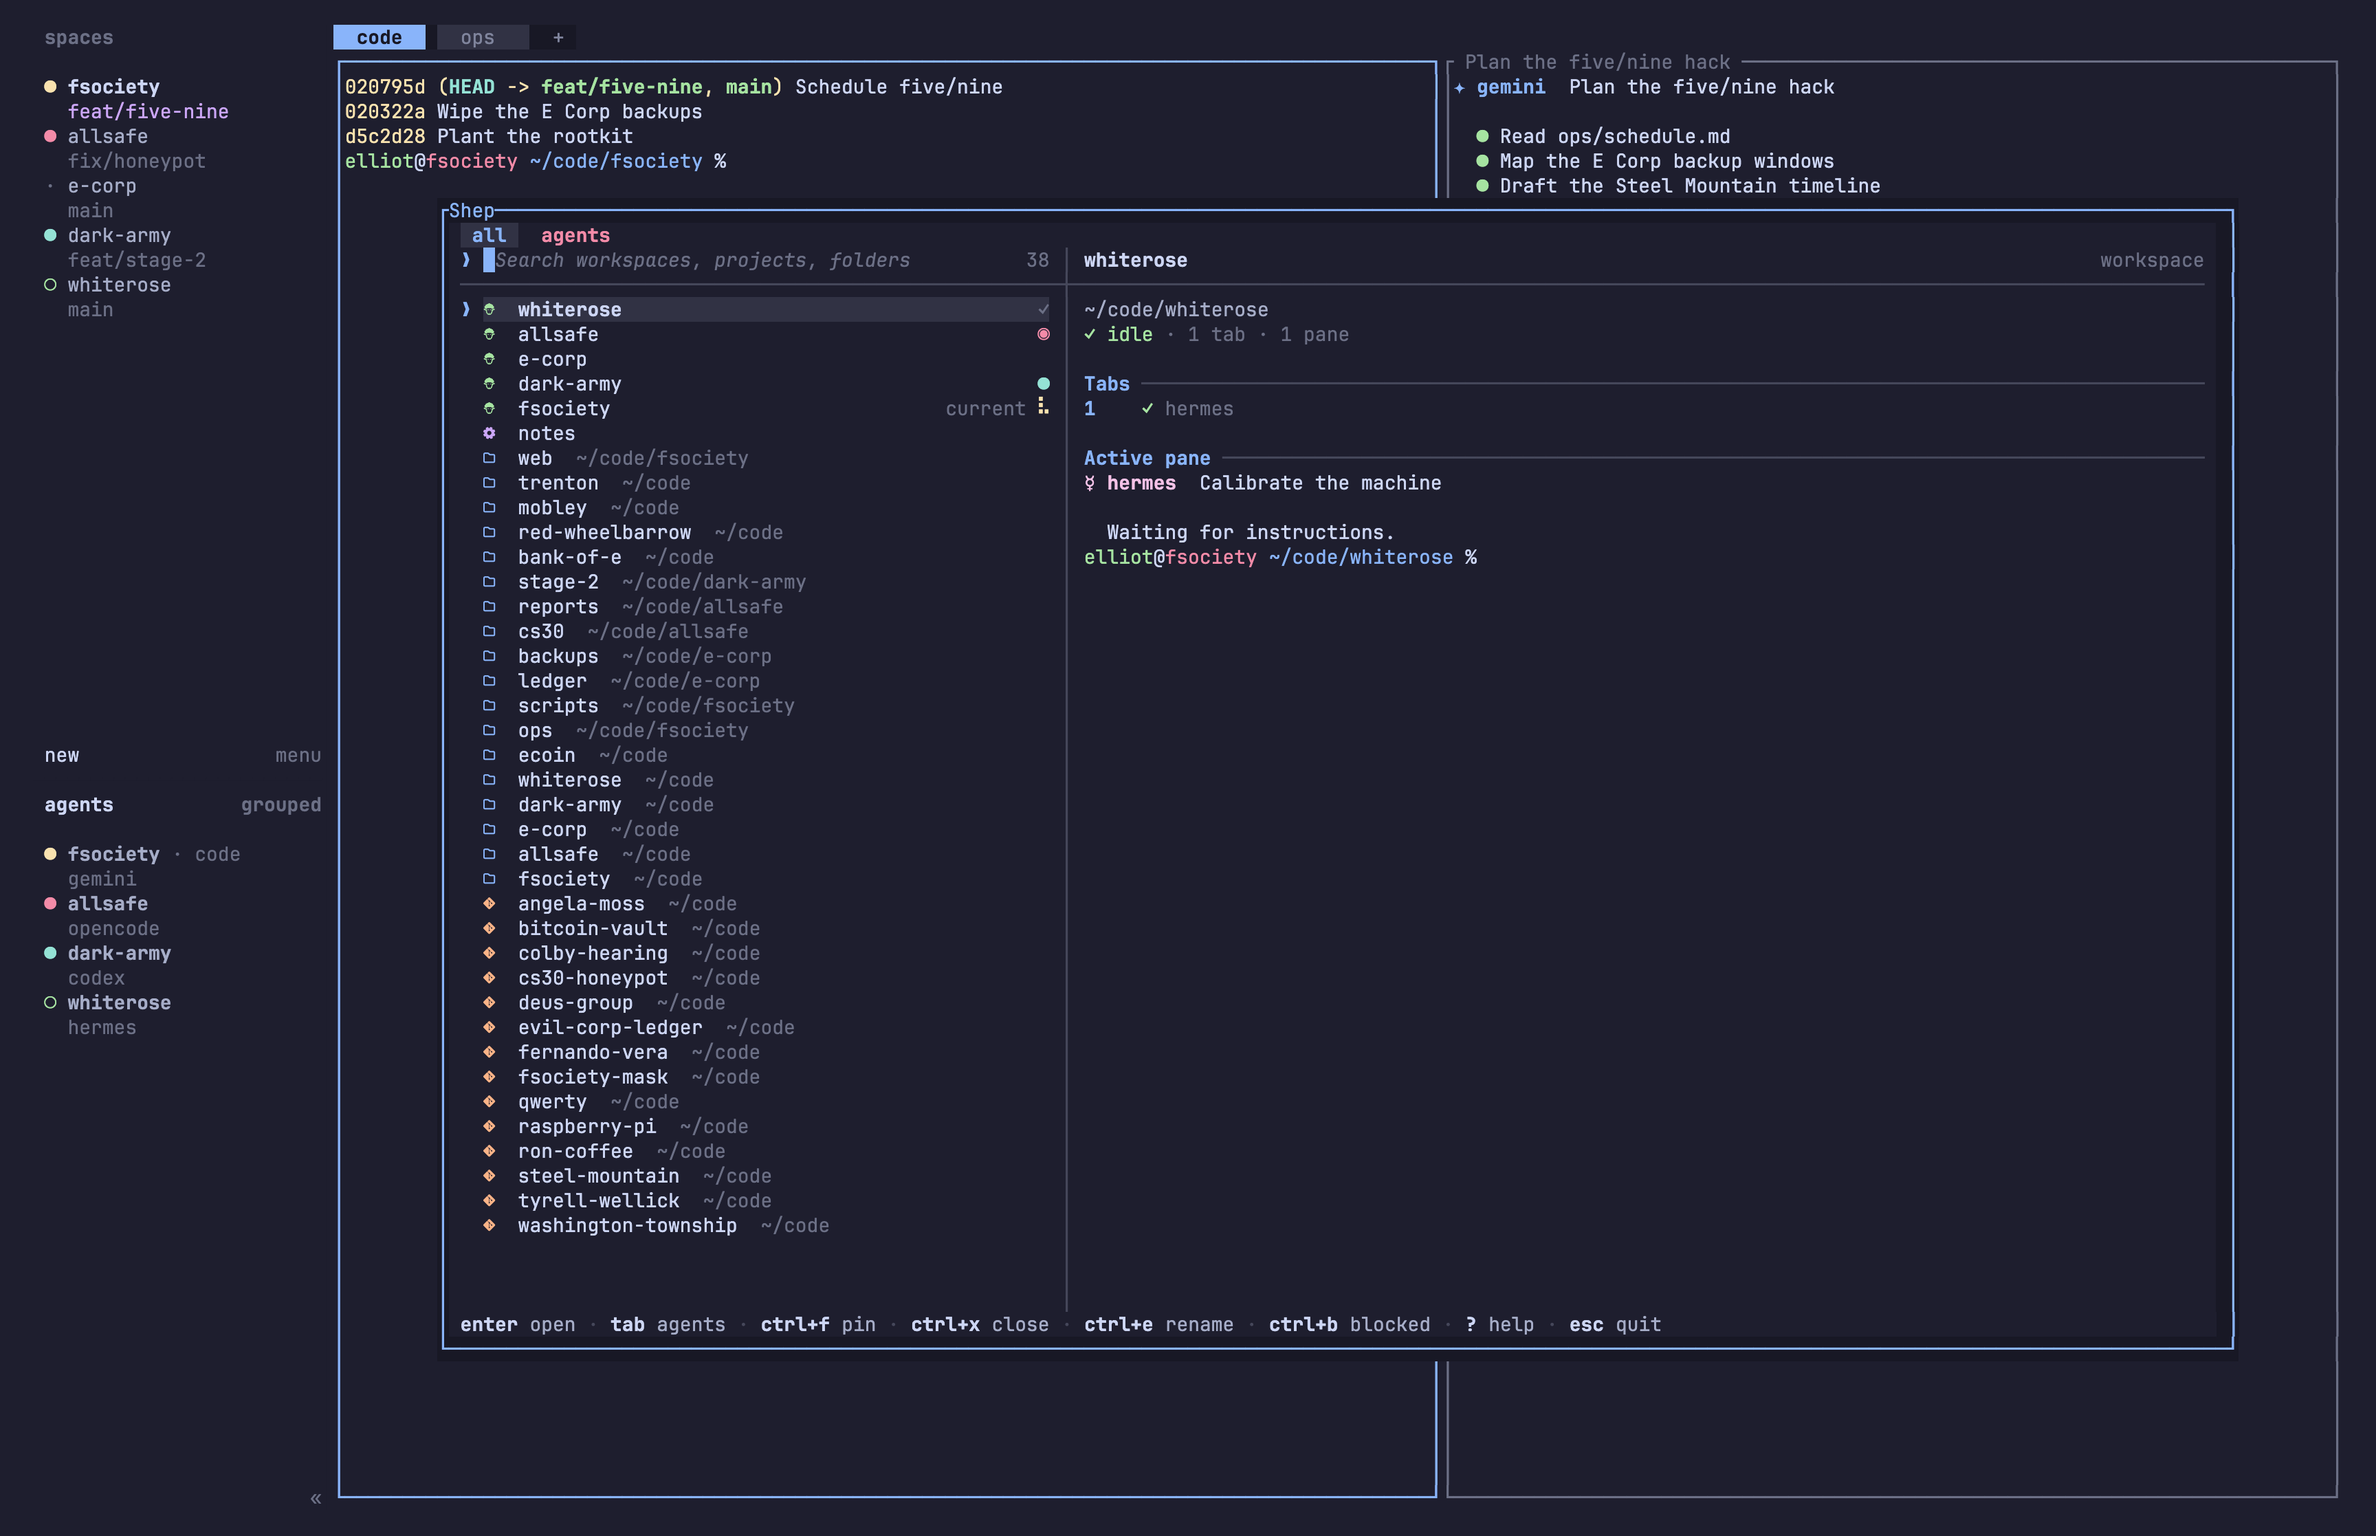
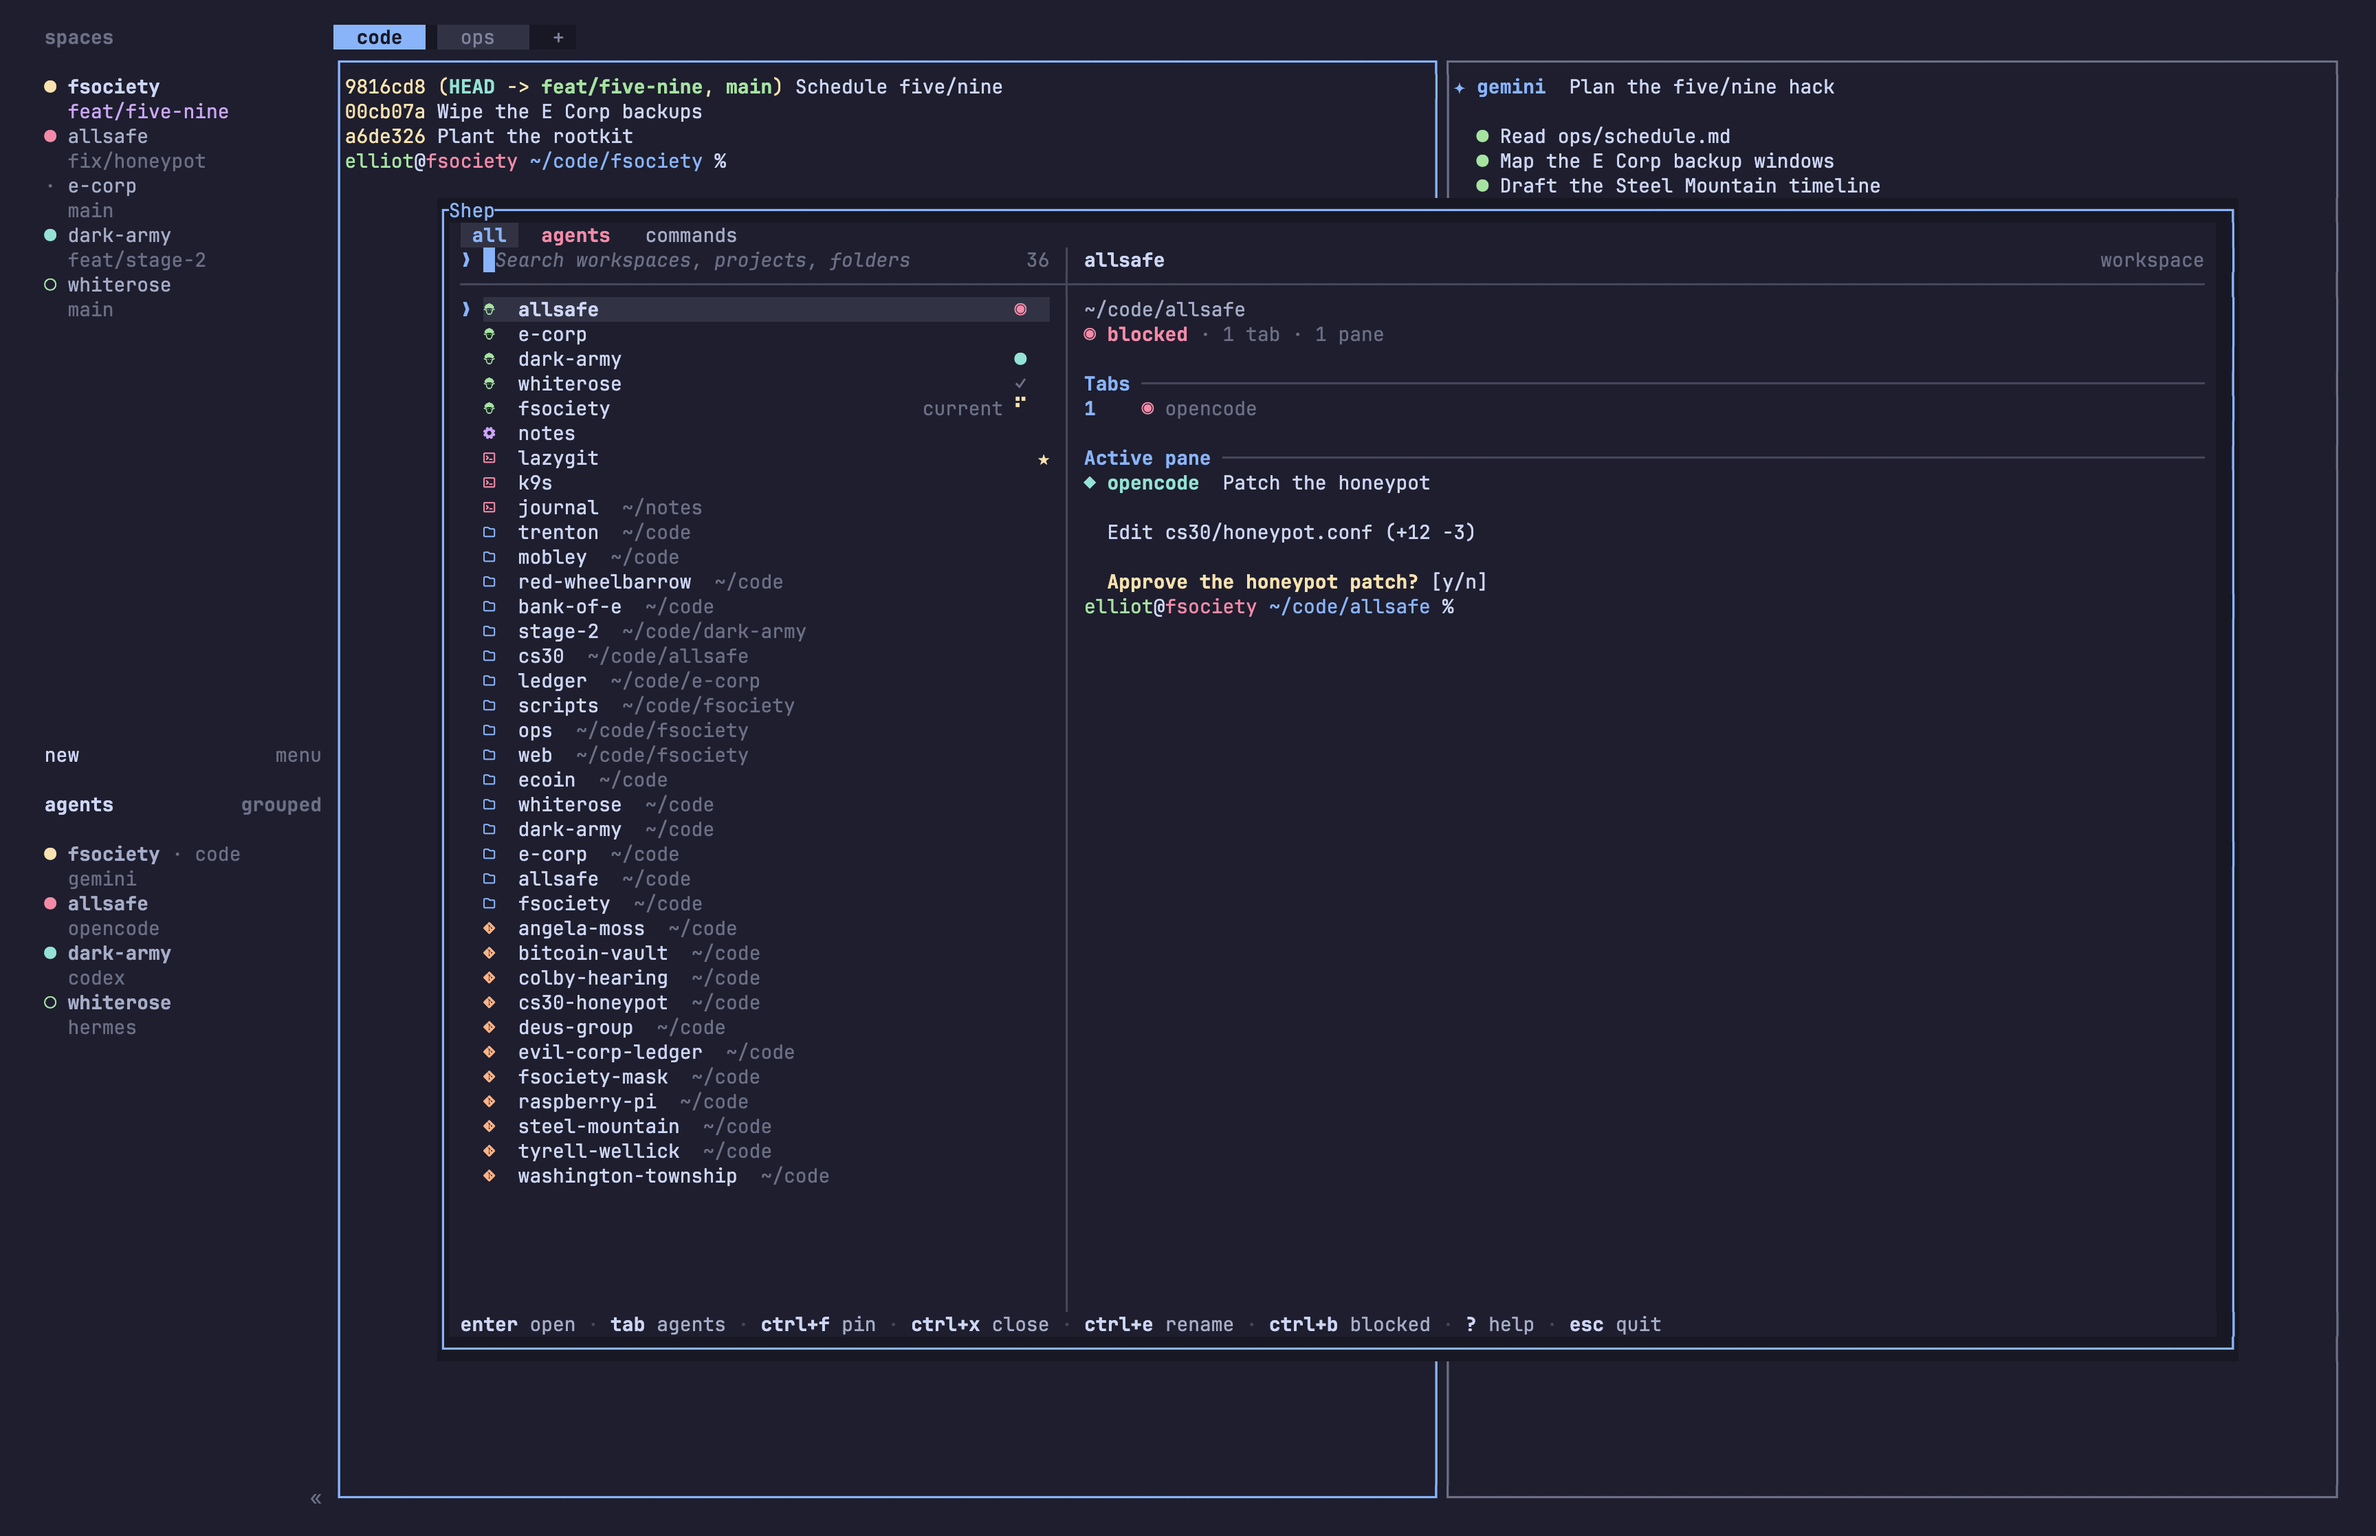
docs(media): show the commands tab, a pin and a blocked agent
The README screenshot and the link preview card are captured again from
a demo Herdr with the v1.2 picker: the commands tab and rows, a pinned
row, and the blocked agent's question in the preview. The card's tagline
names programs.

diff --git a/README.md b/README.md
@@ -292,7 +292,7 @@ the full recovery and refusal taxonomy.
 The picker is one grid with a single frame (Herdr's popup border when it runs as a plugin): views on top, the search prompt and the list on the left, the preview on the right, and the shortcuts that apply to the selected row at the bottom.
 
 <p align="center">
-  <img src="docs/media/shep-picker.png" alt="The shep picker over a Herdr workspace: open workspaces with their agent state, a configured workspace, zoxide entries and projects on the left; the selected workspace's path, state, tabs and active pane on the right" width="100%">
+  <img src="docs/media/shep-picker.png" alt="The shep picker over a Herdr workspace, with the all, agents and commands tabs: open workspaces with their agent state, a configured workspace, commands (one pinned), zoxide entries and projects on the left; the selected workspace's path, blocked agent, tabs and the question in its active pane on the right" width="100%">
 </p>
 
 - **Views** (`tab` / `shift+tab`) stay visible at every width; the active one is highlighted.
